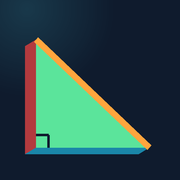
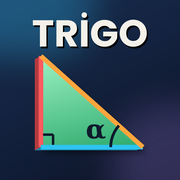
Yeni uygulama simgesi: TRİGO yazısı ve renkli dik üçgen
Claude-Session: https://claude.ai/code/session_01Fjv5ALZXu8vdPoP4z6GbHn

diff --git a/index.html b/index.html
@@ -9,9 +9,9 @@
 <meta name="apple-mobile-web-app-status-bar-style" content="black-translucent">
 <meta name="apple-mobile-web-app-title" content="Trigo Avcısı">
 <meta name="description" content="10. sınıf trigonometri: dersler, testler, laboratuvar ve karaoke şarkı.">
-<link rel="manifest" href="manifest.webmanifest">
-<link rel="apple-touch-icon" href="apple-touch-icon.png">
-<link rel="icon" type="image/png" href="icon-192.png">
+<link rel="manifest" href="manifest.webmanifest?v=2">
+<link rel="apple-touch-icon" href="apple-touch-icon.png?v=2">
+<link rel="icon" type="image/png" href="icon-192.png?v=2">
 <style>:root{padding-top:env(safe-area-inset-top,0px);padding-bottom:env(safe-area-inset-bottom,0px)}body{margin:0;font-family:system-ui,sans-serif;font-size:14px}img{max-width:100%}[hidden]{display:none!important}</style>
 </head>
 <body>
